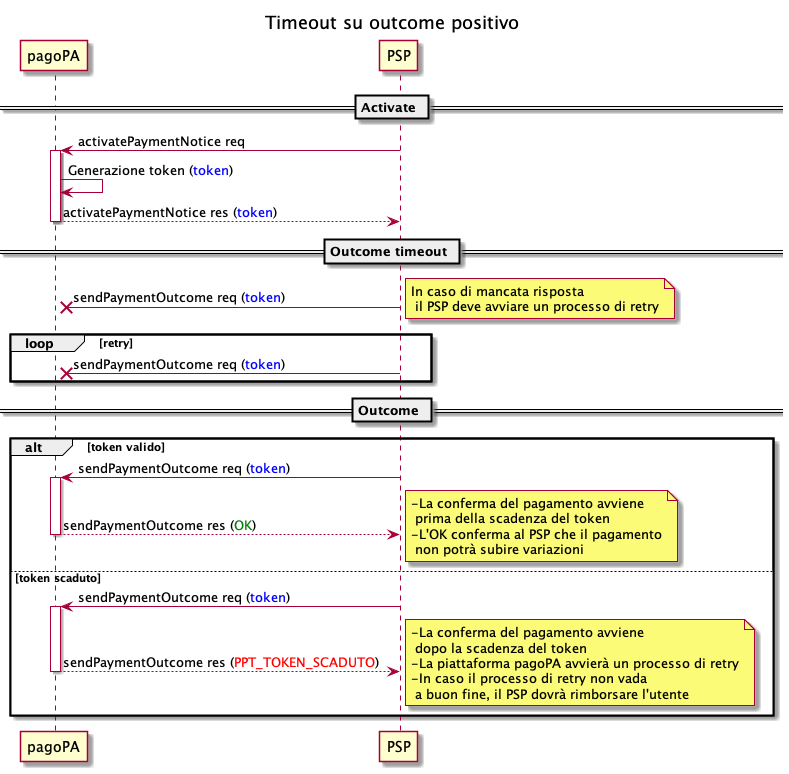
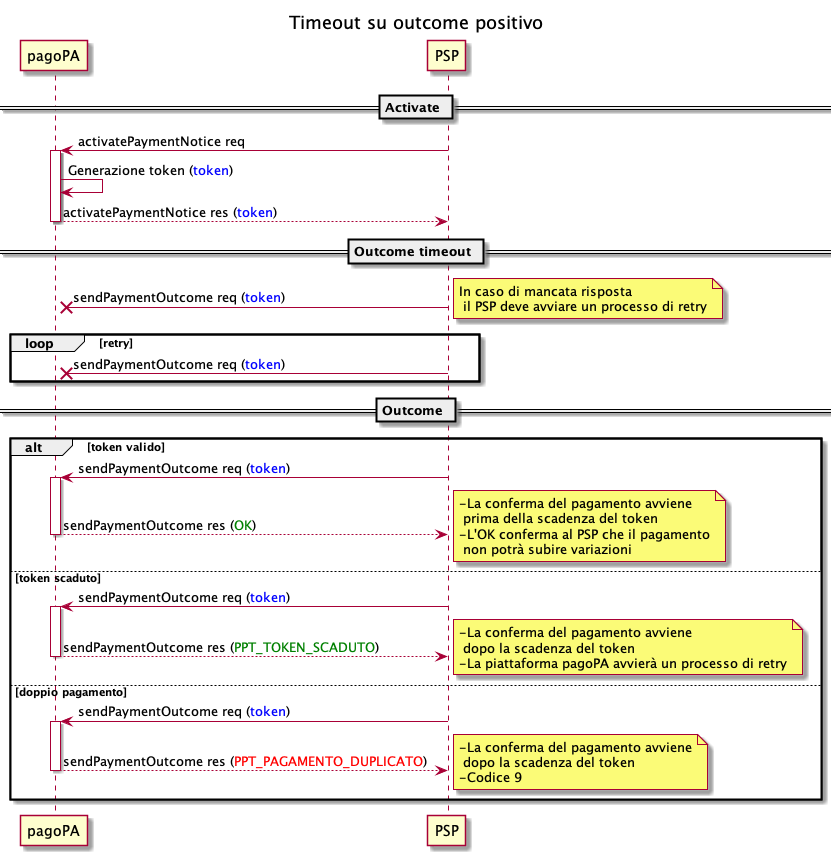
revisted PSP exception flow in 3_06_00

diff --git a/sezione3-specifiche-tecniche/3_06_00_pagamento_avviso.md b/sezione3-specifiche-tecniche/3_06_00_pagamento_avviso.md
@@ -31,13 +31,13 @@ Una volta verificato l'Avviso di Pagamento è facoltà dell'utente autorizzarne 
 
 Il Prestatore di Servizi di Pagamento (PSP) apre una sessione di pagamento di un Avviso tramite la primitiva `activatePaymentNotice()`. 
 
-In risposta la Piattaforma pagoPA genera il token necessario per eseguire il pagamento e successivamente comunicare l’esito alla piattaforma stessa. Inoltre vengono restituiti tutti dati della richiesta di pagamento, in particolare quelli necessari per le operazioni di addebito ed accredito (es: importo totale con lista dei conti di accredito e quota parte dell’importo). Lo stato della Richiesta di Pagamento è posto in *paying*.
+In risposta la Piattaforma pagoPA genera il token necessario per eseguire il pagamento e successivamente comunicare l’esito alla piattaforma stessa. La generazione del token ha l'effetto di bloccare la posizione debitoria sulla piattaforma per il tempo indicato nel campo `expiringTime` o, se non specificato, per la sua durata di default: con questa soluzione si impediscono i pagamenti doppi per la durata del token. Inoltre vengono restituiti tutti dati della richiesta di pagamento, in particolare quelli necessari per le operazioni di addebito ed accredito (es: importo totale con lista dei conti di accredito e quota parte dell’importo).
 
 I possibili casi in cui non si ottiene una risposta positiva sono nel seguito descritti:
 
-* Se i dati forniti dal PSP non sono corretti la Piattaforma risponde con un `KO`: il PSP non potrà quindi avviare il pagamento (caso 2)
-* Se risulta aperta una precedente sessione di pagamento la Piattaforma risponde con un `KO`: ciò inibisce ad altri PSP l'apertura di sessioni di pagamento concorrenti per lo stesso Avviso (caso 2)
-* Se il PSP non ottiene risposta dalla Piattaforma alla richiesta di attivazione della sessione, può avviare un processo di retry (caso 3). La chiamata `activatePaymentNotice()` è idempotente (prevede il parametro opzionale `idempotencyKey`): ovvero a fronte di un'invocazione con la stessa chiave la Piattaforma risponderà con il medesimo output.
+* Se i dati forniti dal PSP non sono corretti la Piattaforma risponde con un `KO`: il PSP non potrà quindi avviare il pagamento (**caso 2**)
+* Se risulta aperta una precedente sessione di pagamento la Piattaforma risponde con un `KO`: ciò inibisce ad altri PSP l'apertura di sessioni di pagamento concorrenti per lo stesso Avviso (**caso 2**)
+* Se il PSP non ottiene risposta dalla Piattaforma alla richiesta di attivazione della sessione, può avviare un processo di retry (**caso 3**). La chiamata `activatePaymentNotice()` è idempotente (prevede il parametro opzionale `idempotencyKey`): ovvero a fronte di un'invocazione con la stessa chiave la Piattaforma risponderà con il medesimo output.
 
 ### Pagamento
 
@@ -58,19 +58,19 @@ Il PSP ha l'obbligo di notificare alla Piattaforma l'esito sia in caso di pagame
 
 Il PSP ha quindi l’obbligo, in caso di mancato recapito dell'esito, di avviare un processo di _retry_.
 
-Se il retry avviene entro la scadenza del token della sessione di pagamento non si identificano potenziali problemi. Qualora invece il processo di retry si completa oltre la scadenza del token il PSP otterrà in risposta che il token è scaduto.
+Se il retry avviene _entro la scadenza_ del token della sessione di pagamento non si identificano potenziali problemi. Qualora invece il processo di retry si completa oltre la scadenza del token il PSP otterrà in risposta che il token è scaduto.
 
 Si identificano i seguenti casi:
 
-* incasso effettuato e timeout sull'invio dell'esito (caso 4)
-* incasso non effettuato e timeout sull'invio dell’esito (caso 5)
+* incasso effettuato e timeout sull'invio dell'esito (**caso 4**)
+* incasso non effettuato e timeout sull'invio dell'esito (**caso 5**)
 
 In caso di incasso effettuato e timeout sull'invio dell’esito (caso 4), la Piattaforma pagoPA avvierà un processo di retry del pagamento verso l'Ente Creditore che può portare a due esiti:
 
-* esito positivo: l'avviso risulta ancora pagabile e la Piattaforma riesce a comunicare l'avvenuto pagamento all'EC
-* esito negativo: l'avviso non risulta pagabile. Attraverso il servizio di Assistenza verrà comunicata la situazione al PSP che dovrà preoccuparsi di rimborsare l'importo all'utente.
+* esito positivo: l'avviso risulta ancora pagabile e la Piattaforma riesce a comunicare l'avvenuto pagamento all'EC, che quindi riceve una `RT+`
+* esito negativo: l'EC non riceve una `RT+`
 
-#### Eccezioni
+### Eccezioni
 
 Nel seguito vengono illustrate le eccezioni specificate in precedenza (casi 2, 3, 4 e 5).
 
@@ -102,5 +102,3 @@ Il PSP può avviare un processo di retry in caso di mancata risposta da parte de
 **Caso 5 - incasso non effettuato e timeout su invio dell'esito**
 
 ![sd_psp_pagamento_avviso-timeout-su-outcome-negativo](../diagrams/sd_psp_pagamento_avviso-timeout-su-outcome-negativo-05.png)
-
-Se il PSP riceve una risposta negativa all'invocazione della primitiva `sendPaymentOutcome()` deve notificare all’utente l’impossibilità di concludere il pagamento, con opportuna motivazione secondo il messaggio di errore ottenuto dalla piattaforma.
